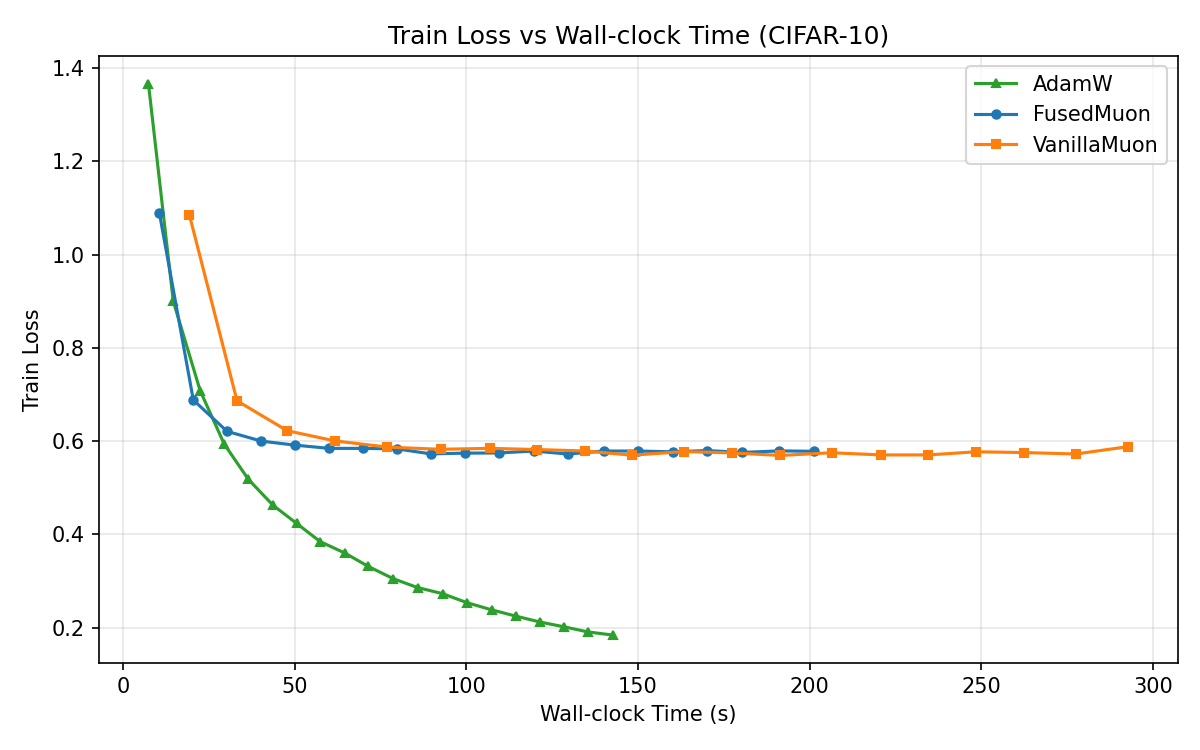
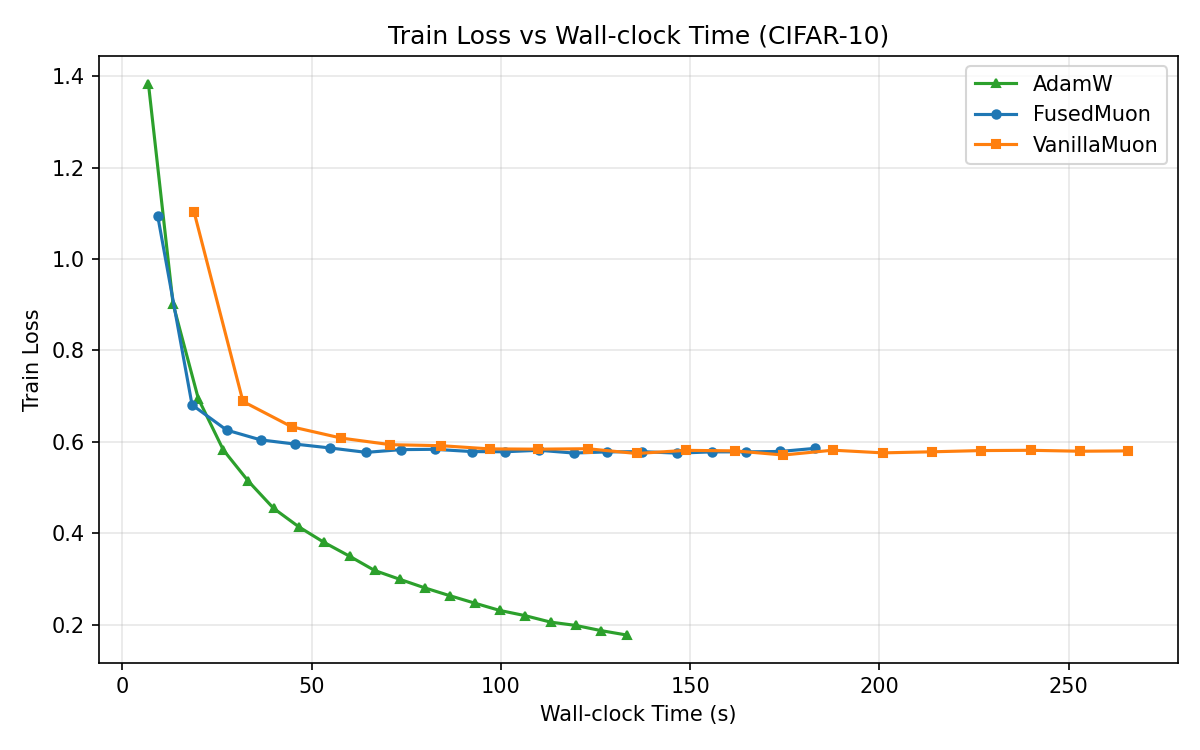
Update benchmarks from dedicated A800 (no interference)
NS step (5 iterations, vs torch.compile steady-state):
- All shapes 1.47-2.05x, core shapes stable ~1.5x
- Measured on dedicated A800 with 500-iter warmup

CIFAR-10 training (ResNet-18):
- FusedMuon optimizer step: 2960ms vs VanillaMuon: 7120ms (2.4x)
- Total training: 183s vs 266s (31% faster)
- Identical loss/accuracy curves

Updated README with verified data and benchmark methodology note.

diff --git a/README.md b/README.md
@@ -20,7 +20,7 @@
 
 ---
 
-Drop-in replacement for the [Muon optimizer](https://github.com/KellerJordan/Muon) that accelerates the Newton-Schulz orthogonalization by exploiting **matrix symmetry** with custom CuTe SYRK kernels. Achieves **1.5x faster** NS iteration and **2.5x faster optimizer step** with **identical training dynamics**.
+Drop-in replacement for the [Muon optimizer](https://github.com/KellerJordan/Muon) that accelerates the Newton-Schulz orthogonalization by exploiting **matrix symmetry** with custom CuTe SYRK kernels. Achieves **stable 1.5x speedup** vs `torch.compile` on dedicated A800 with **identical training dynamics**.
 
 <p align="center">
   <img src="benchmarks/figures/optimizer_step_time.png" width="600"/>
@@ -68,6 +68,25 @@ X_ortho = fused_newton_schulz(G, steps=5)
 
 ## 📊 Benchmarks
 
+All benchmarks measured on a **dedicated NVIDIA A800-SXM4-80GB** (no other processes), BF16, with 500-iteration warmup per method to ensure stable GPU frequency.
+
+### Newton-Schulz Step Speedup (5 iterations, vs `torch.compile`)
+
+Baseline is `@torch.compile`'d vanilla NS — **steady-state** comparison after compilation warmup:
+
+| Shape (m, n) | `torch.compile` (us) | Fused SYRK (us) | Speedup |
+|:---:|:---:|:---:|:---:|
+| (896, 1152) | 465 | 269 | **1.73x** |
+| (896, 896) | 478 | 232 | **2.05x** |
+| (2048, 2560) | 2114 | 1403 | **1.51x** |
+| (2048, 2048) | 1965 | 1305 | **1.51x** |
+| (2560, 4096) | 3443 | 2349 | **1.47x** |
+| (3584, 4608) | 7687 | 5228 | **1.47x** |
+| (3584, 3584) | 6587 | 4430 | **1.49x** |
+| (4096, 4096) | 9351 | 6294 | **1.49x** |
+
+> Consistent **~1.5x** speedup across all tested shapes vs `torch.compile` (post-warmup steady state). Small shapes (m ≤ 896) benefit more (**1.7–2.0x**) due to proportionally larger overhead eliminated by kernel fusion.
+
 ### CIFAR-10 Training: FusedMuon vs VanillaMuon vs AdamW
 
 <table>
@@ -81,21 +100,7 @@ X_ortho = fused_newton_schulz(G, steps=5)
 </tr>
 </table>
 
-> FusedMuon and VanillaMuon produce **identical training curves** (loss & accuracy overlap), confirming numerical equivalence. GPU-side measurement (CUDA Event) confirms **2.5x faster optimizer step** and **1.42x faster training iteration**.
-
-### Newton-Schulz Step Speedup (5 iterations, vs `torch.compile`)
-
-Tested on NVIDIA A800-SXM4-80GB, BF16. Baseline is `@torch.compile`'d vanilla NS (**after** compilation warmup — steady-state comparison):
-
-| Shape (m, n) | `torch.compile` (us) | Fused SYRK (us) | Speedup |
-|:---:|:---:|:---:|:---:|
-| (896, 1152) | 537 | 333 | **1.61x** |
-| (896, 896) | 523 | 291 | **1.80x** |
-| (2048, 2560) | 2147 | 1415 | **1.52x** |
-| (2048, 2048) | 1995 | 1315 | **1.52x** |
-| (2560, 4096) | 3503 | 2348 | **1.49x** |
-| (3584, 4608) | 7862 | 5229 | **1.50x** |
-| (4096, 4096) | 9478 | 6257 | **1.51x** |
+> FusedMuon and VanillaMuon produce **identical training curves** (loss & accuracy overlap), confirming numerical equivalence.
 
 ### End-to-End NS Iteration Speedup (Qwen Model Shapes)
 
@@ -107,8 +112,6 @@ Tested on NVIDIA A800-SXM4-80GB, BF16. Baseline is `@torch.compile`'d vanilla NS
 | Qwen 7B | QKV | (3584, 4608) | 1.67x | 1.78x | **1.38x** |
 | Qwen 7B | O | (3584, 3584) | 1.61x | 1.78x | **1.39x** |
 | Standard | — | (4096, 4096) | 1.66x | 1.84x | **1.42x** |
-
-> Consistent **1.5x** speedup across all tested shapes vs `torch.compile` baseline. Kernel-level profiling confirms **1.79x CUDA time reduction** (SYRK saves 50% GEMMs + fused epilogue eliminates elementwise kernels).
 
 ---
 
@@ -176,18 +179,6 @@ from muon_fused import fused_newton_schulz
 X_ortho = fused_newton_schulz(gradient_matrix, steps=5)
 ```
 
-### Pre-allocated Workspace
-
-```python
-from muon_fused.ns_step import workspace_size
-import torch
-
-# For repeated calls with the same shape, pre-allocate workspace to avoid cudaMalloc
-m, n = 4096, 4096
-ws = torch.empty(workspace_size(m, n), dtype=torch.uint8, device="cuda")
-X_ortho = fused_newton_schulz(G, steps=5, workspace=ws)
-```
-
 ---
 
 ## ⚙ Requirements
@@ -217,25 +208,18 @@ git submodule update --init --recursive
 ## 🧪 Testing
 
 ```bash
-# Run all tests (correctness + optimizer equivalence + performance)
 pytest tests/ -v
-
-# Skip performance benchmarks in CI
-pytest tests/ -v -m "not benchmark"
 ```
 
 ## 📈 Reproduce Benchmarks
 
 ```bash
-# Newton-Schulz step breakdown (per-GEMM timing)
-python benchmarks/bench_ns_step.py
-
-# CIFAR-10 training comparison (FusedMuon vs Muon vs AdamW)
-python benchmarks/train_cifar10.py
-
-# Generate figures
-python benchmarks/plot_results.py
+python benchmarks/bench_ns_step.py      # NS step breakdown
+python benchmarks/train_cifar10.py      # CIFAR-10 training
+python benchmarks/plot_results.py       # Generate figures
 ```
+
+> **Important**: For reliable results, use a dedicated GPU with no other processes. GPU DVFS causes significant measurement variance on shared machines.
 
 ---
 

diff --git a/README_CN.md b/README_CN.md
@@ -20,7 +20,7 @@
 
 ---
 
-[Muon 优化器](https://github.com/KellerJordan/Muon) 的即插即用加速方案。通过自定义 CuTe SYRK 内核利用**矩阵对称性**加速 Newton-Schulz 正交化。NS 迭代速度提升 **1.5 倍**，优化器 step 提升 **2.5 倍**，训练效果**完全一致**。
+[Muon 优化器](https://github.com/KellerJordan/Muon) 的即插即用加速方案。通过自定义 CuTe SYRK 内核利用**矩阵对称性**加速 Newton-Schulz 正交化。在专用 A800 上实现稳定 **1.5 倍加速**（vs `torch.compile`），训练效果**完全一致**。
 
 <p align="center">
   <img src="benchmarks/figures/optimizer_step_time.png" width="600"/>
@@ -81,7 +81,7 @@ X_ortho = fused_newton_schulz(G, steps=5)
 </tr>
 </table>
 
-> FusedMuon 和 VanillaMuon 的训练曲线**完全重合**，确认数值等价性。GPU 侧测量（CUDA Event）确认优化器 step 提升 **2.5 倍**，训练迭代提升 **1.42 倍**。
+> FusedMuon 和 VanillaMuon 的训练曲线**完全重合**，确认数值等价性。
 
 ### Newton-Schulz 单步加速（5 次迭代）
 
